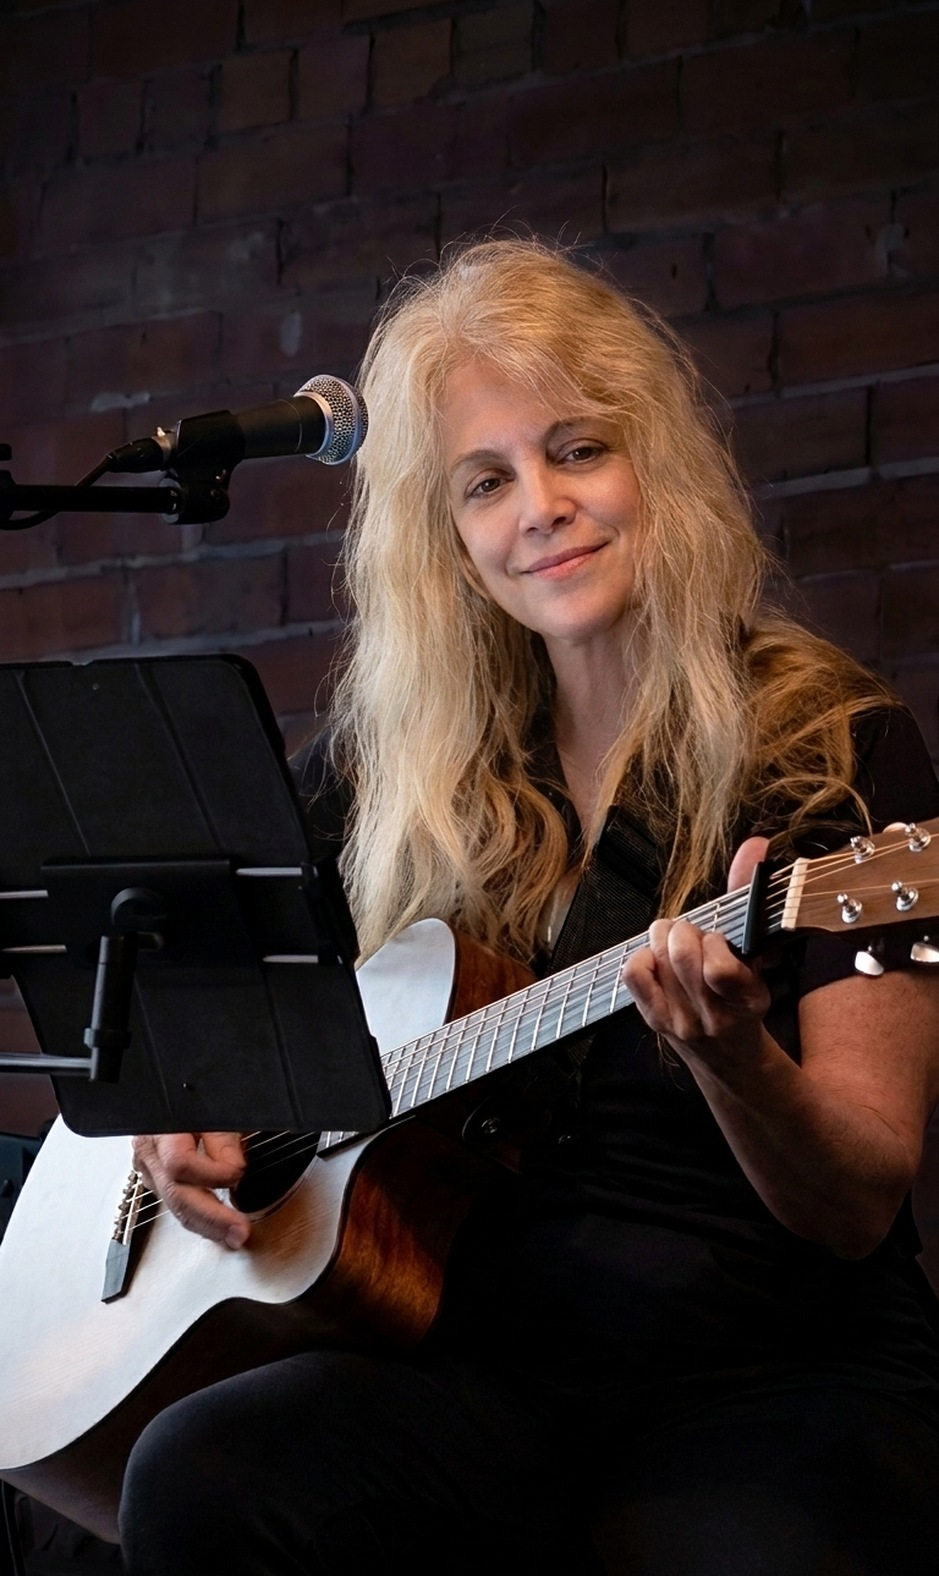
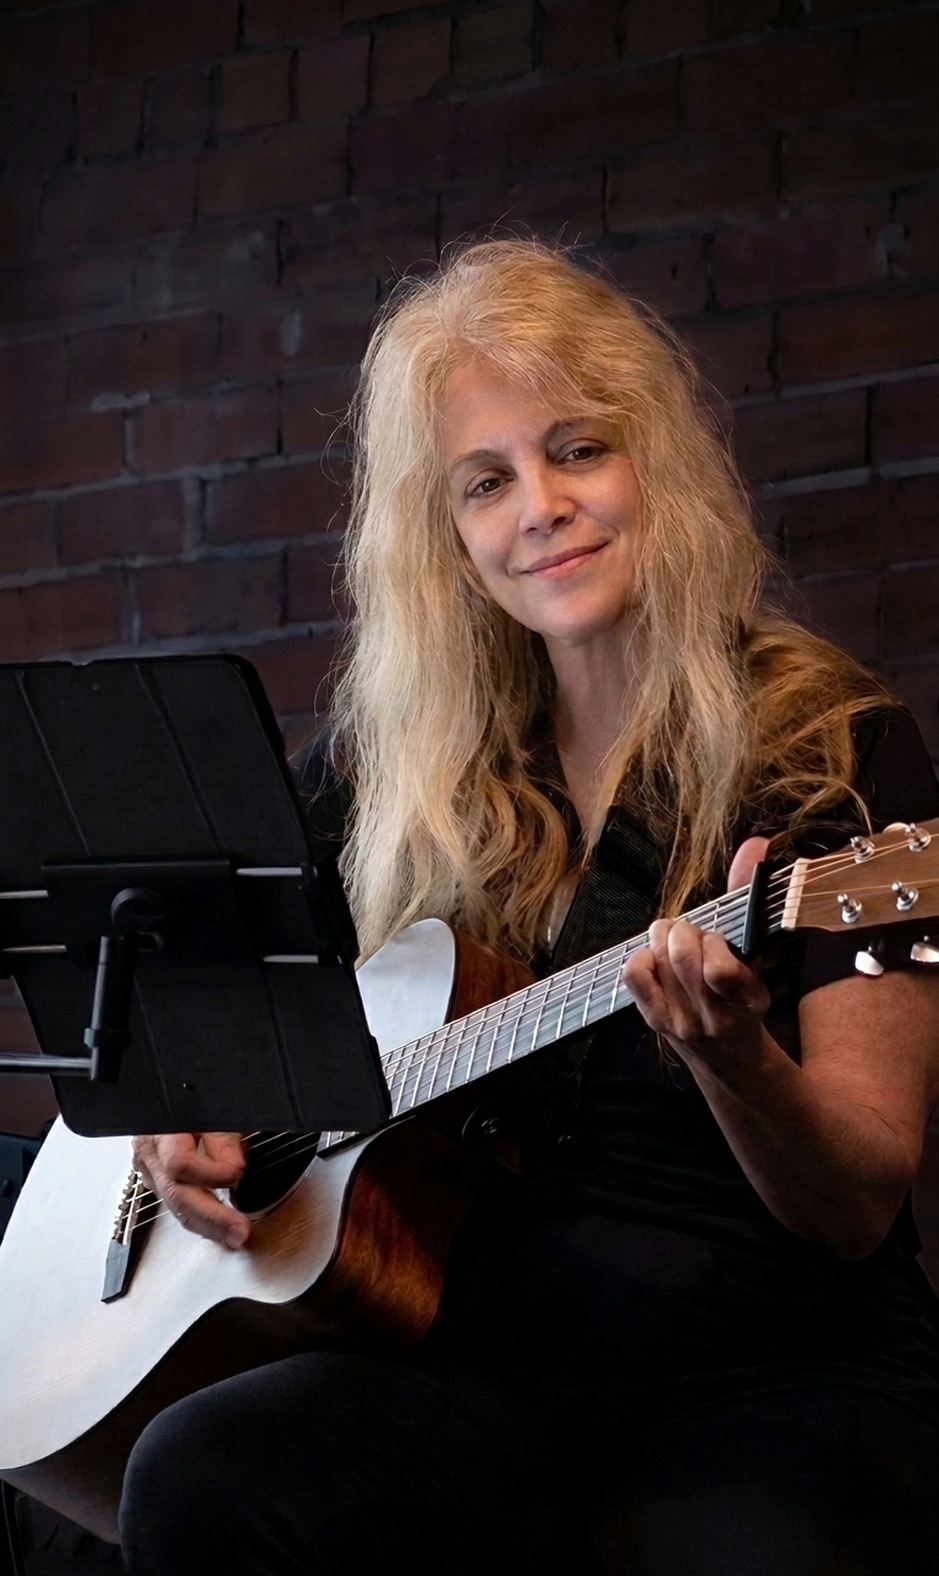
Remove microphone and boom arm from hero portrait

Changed region(s): [[0.0, 0.2176, 0.4015, 0.342]]

diff --git a/index.html b/index.html
@@ -29,8 +29,8 @@
   <link rel="preconnect" href="https://fonts.googleapis.com">
   <link rel="preconnect" href="https://fonts.gstatic.com" crossorigin>
   <link rel="stylesheet" href="https://fonts.googleapis.com/css2?family=Karla:wght@400;500;600;700;800&family=Plus+Jakarta+Sans:wght@600;700;800&display=swap">
-  <link rel="stylesheet" href="styles.css?v=20261102ae">
-  <script defer src="site.js?v=20261102ae"></script>
+  <link rel="stylesheet" href="styles.css?v=20261102af">
+  <script defer src="site.js?v=20261102af"></script>
   <script type="application/ld+json">
   {
     "@context": "https://schema.org",
@@ -72,7 +72,7 @@
 
   <main id="main">
     <section class="hero" id="home" aria-labelledby="hero-title">
-      <img class="hero-photo" src="images/hero-guitar.jpg?v=20261102ae" alt="Reb Yen singing and playing acoustic guitar" width="939" height="1576" fetchpriority="high">
+      <img class="hero-photo" src="images/hero-guitar.jpg?v=20261102af" alt="Reb Yen playing acoustic guitar" width="939" height="1576" fetchpriority="high">
       <div class="container">
         <div class="hero-content">
           <h1 id="hero-title">Reb Yen</h1>

diff --git a/thanks.html b/thanks.html
@@ -29,8 +29,8 @@
   <link rel="preconnect" href="https://fonts.googleapis.com">
   <link rel="preconnect" href="https://fonts.gstatic.com" crossorigin>
   <link rel="stylesheet" href="https://fonts.googleapis.com/css2?family=Karla:wght@400;500;600;700;800&family=Plus+Jakarta+Sans:wght@600;700;800&display=swap">
-  <link rel="stylesheet" href="styles.css?v=20261102ae">
-  <script defer src="site.js?v=20261102ae"></script>
+  <link rel="stylesheet" href="styles.css?v=20261102af">
+  <script defer src="site.js?v=20261102af"></script>
   <script type="application/ld+json">
   {
     "@context": "https://schema.org",
